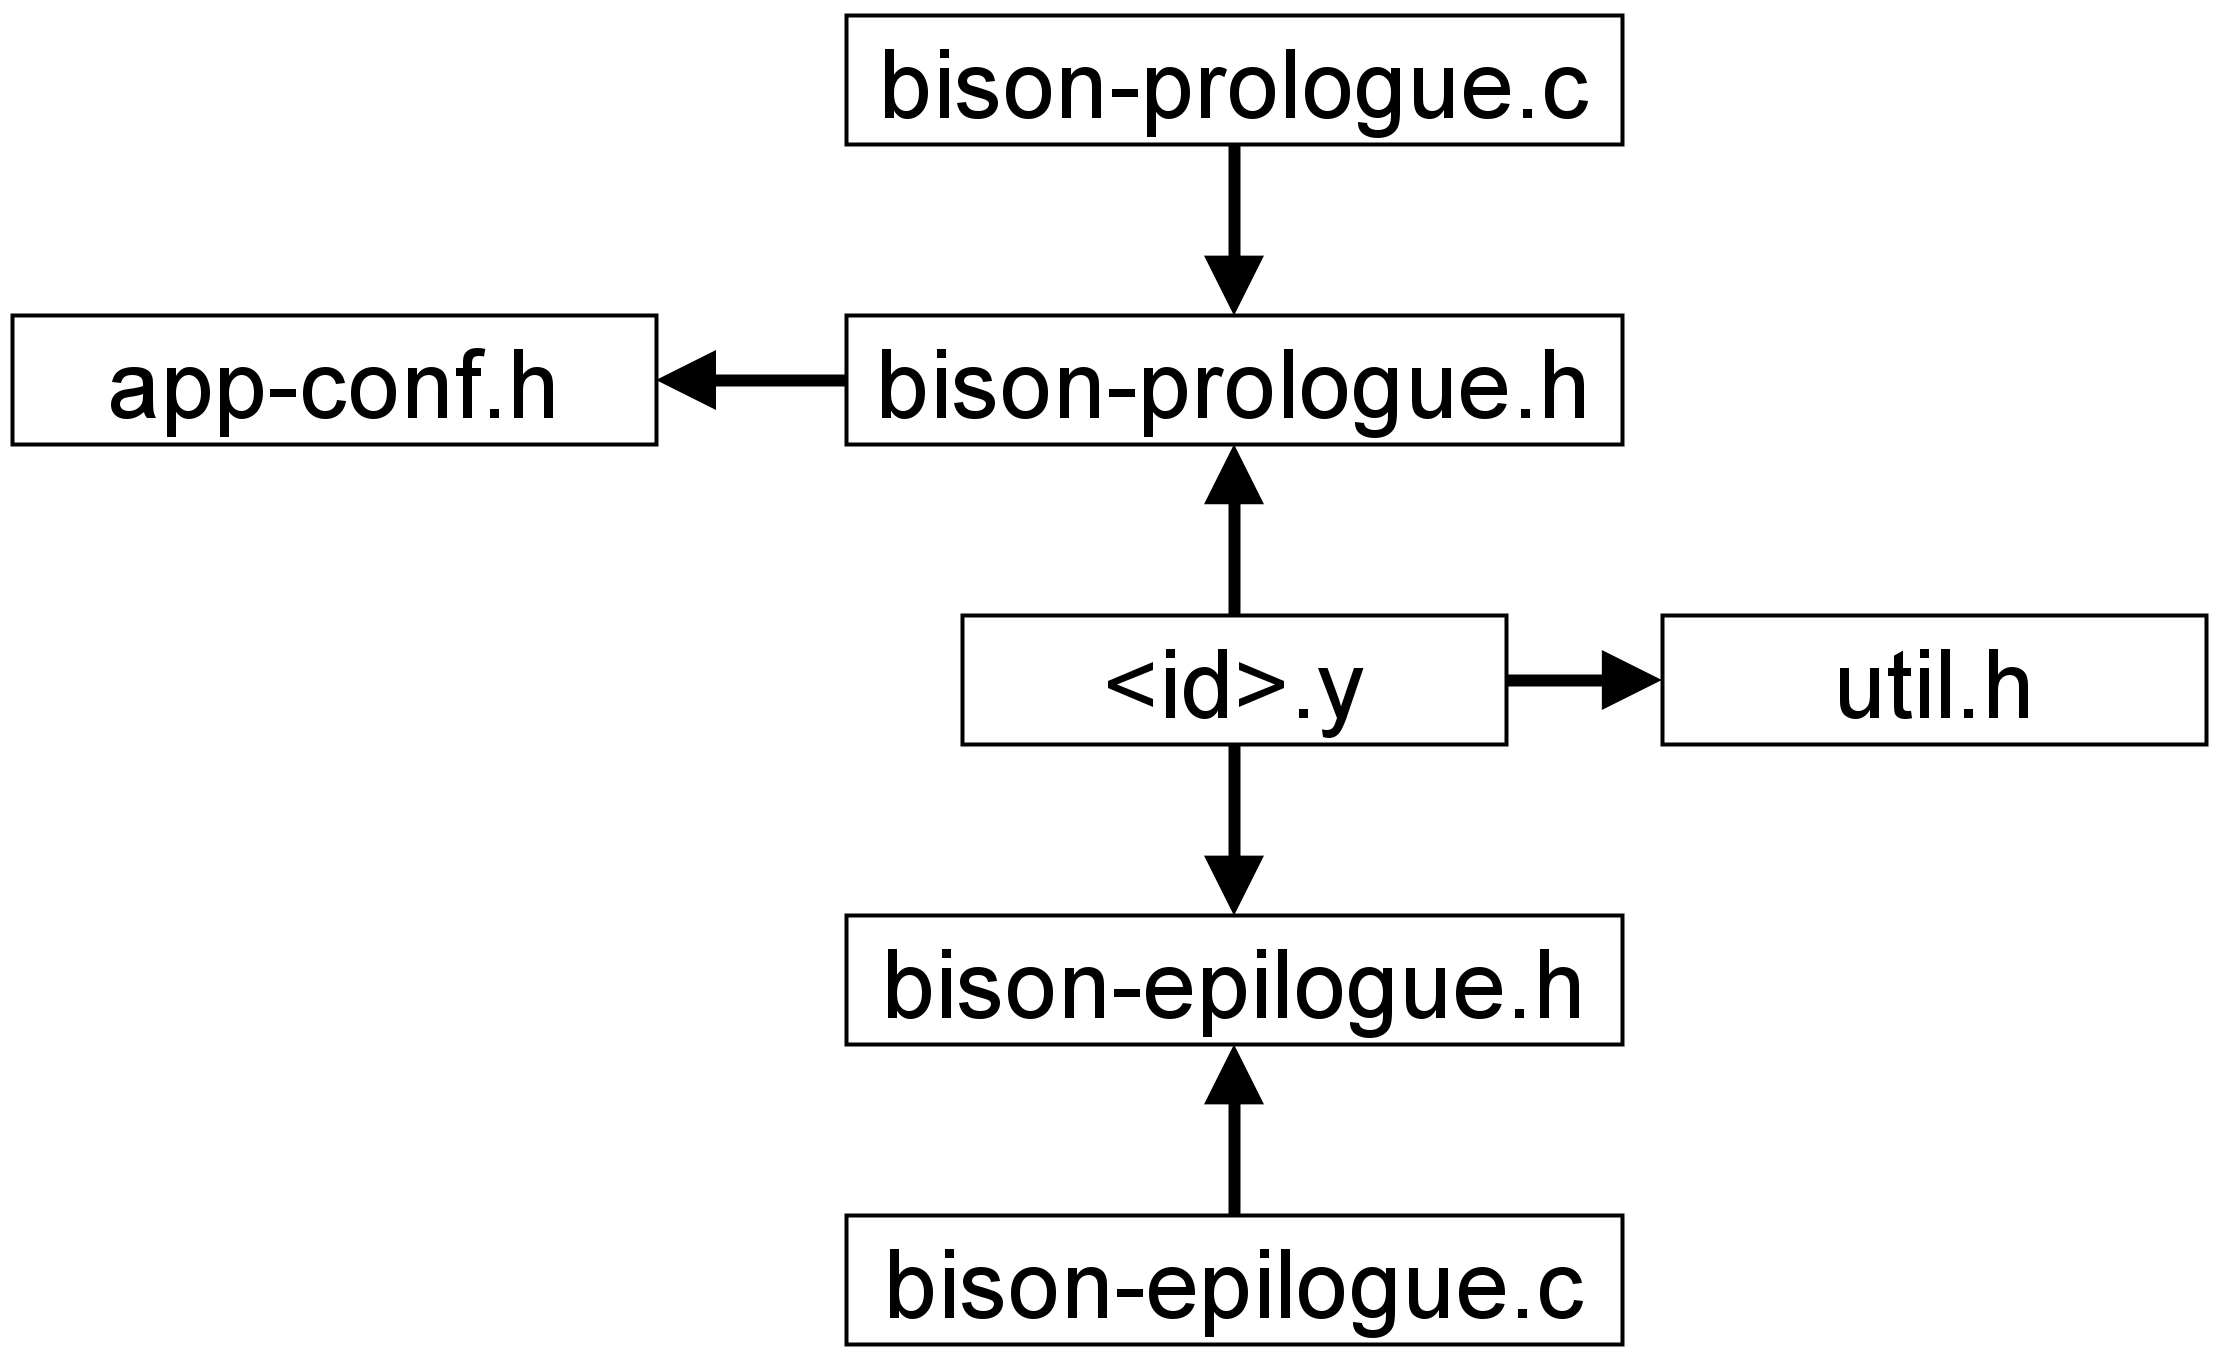
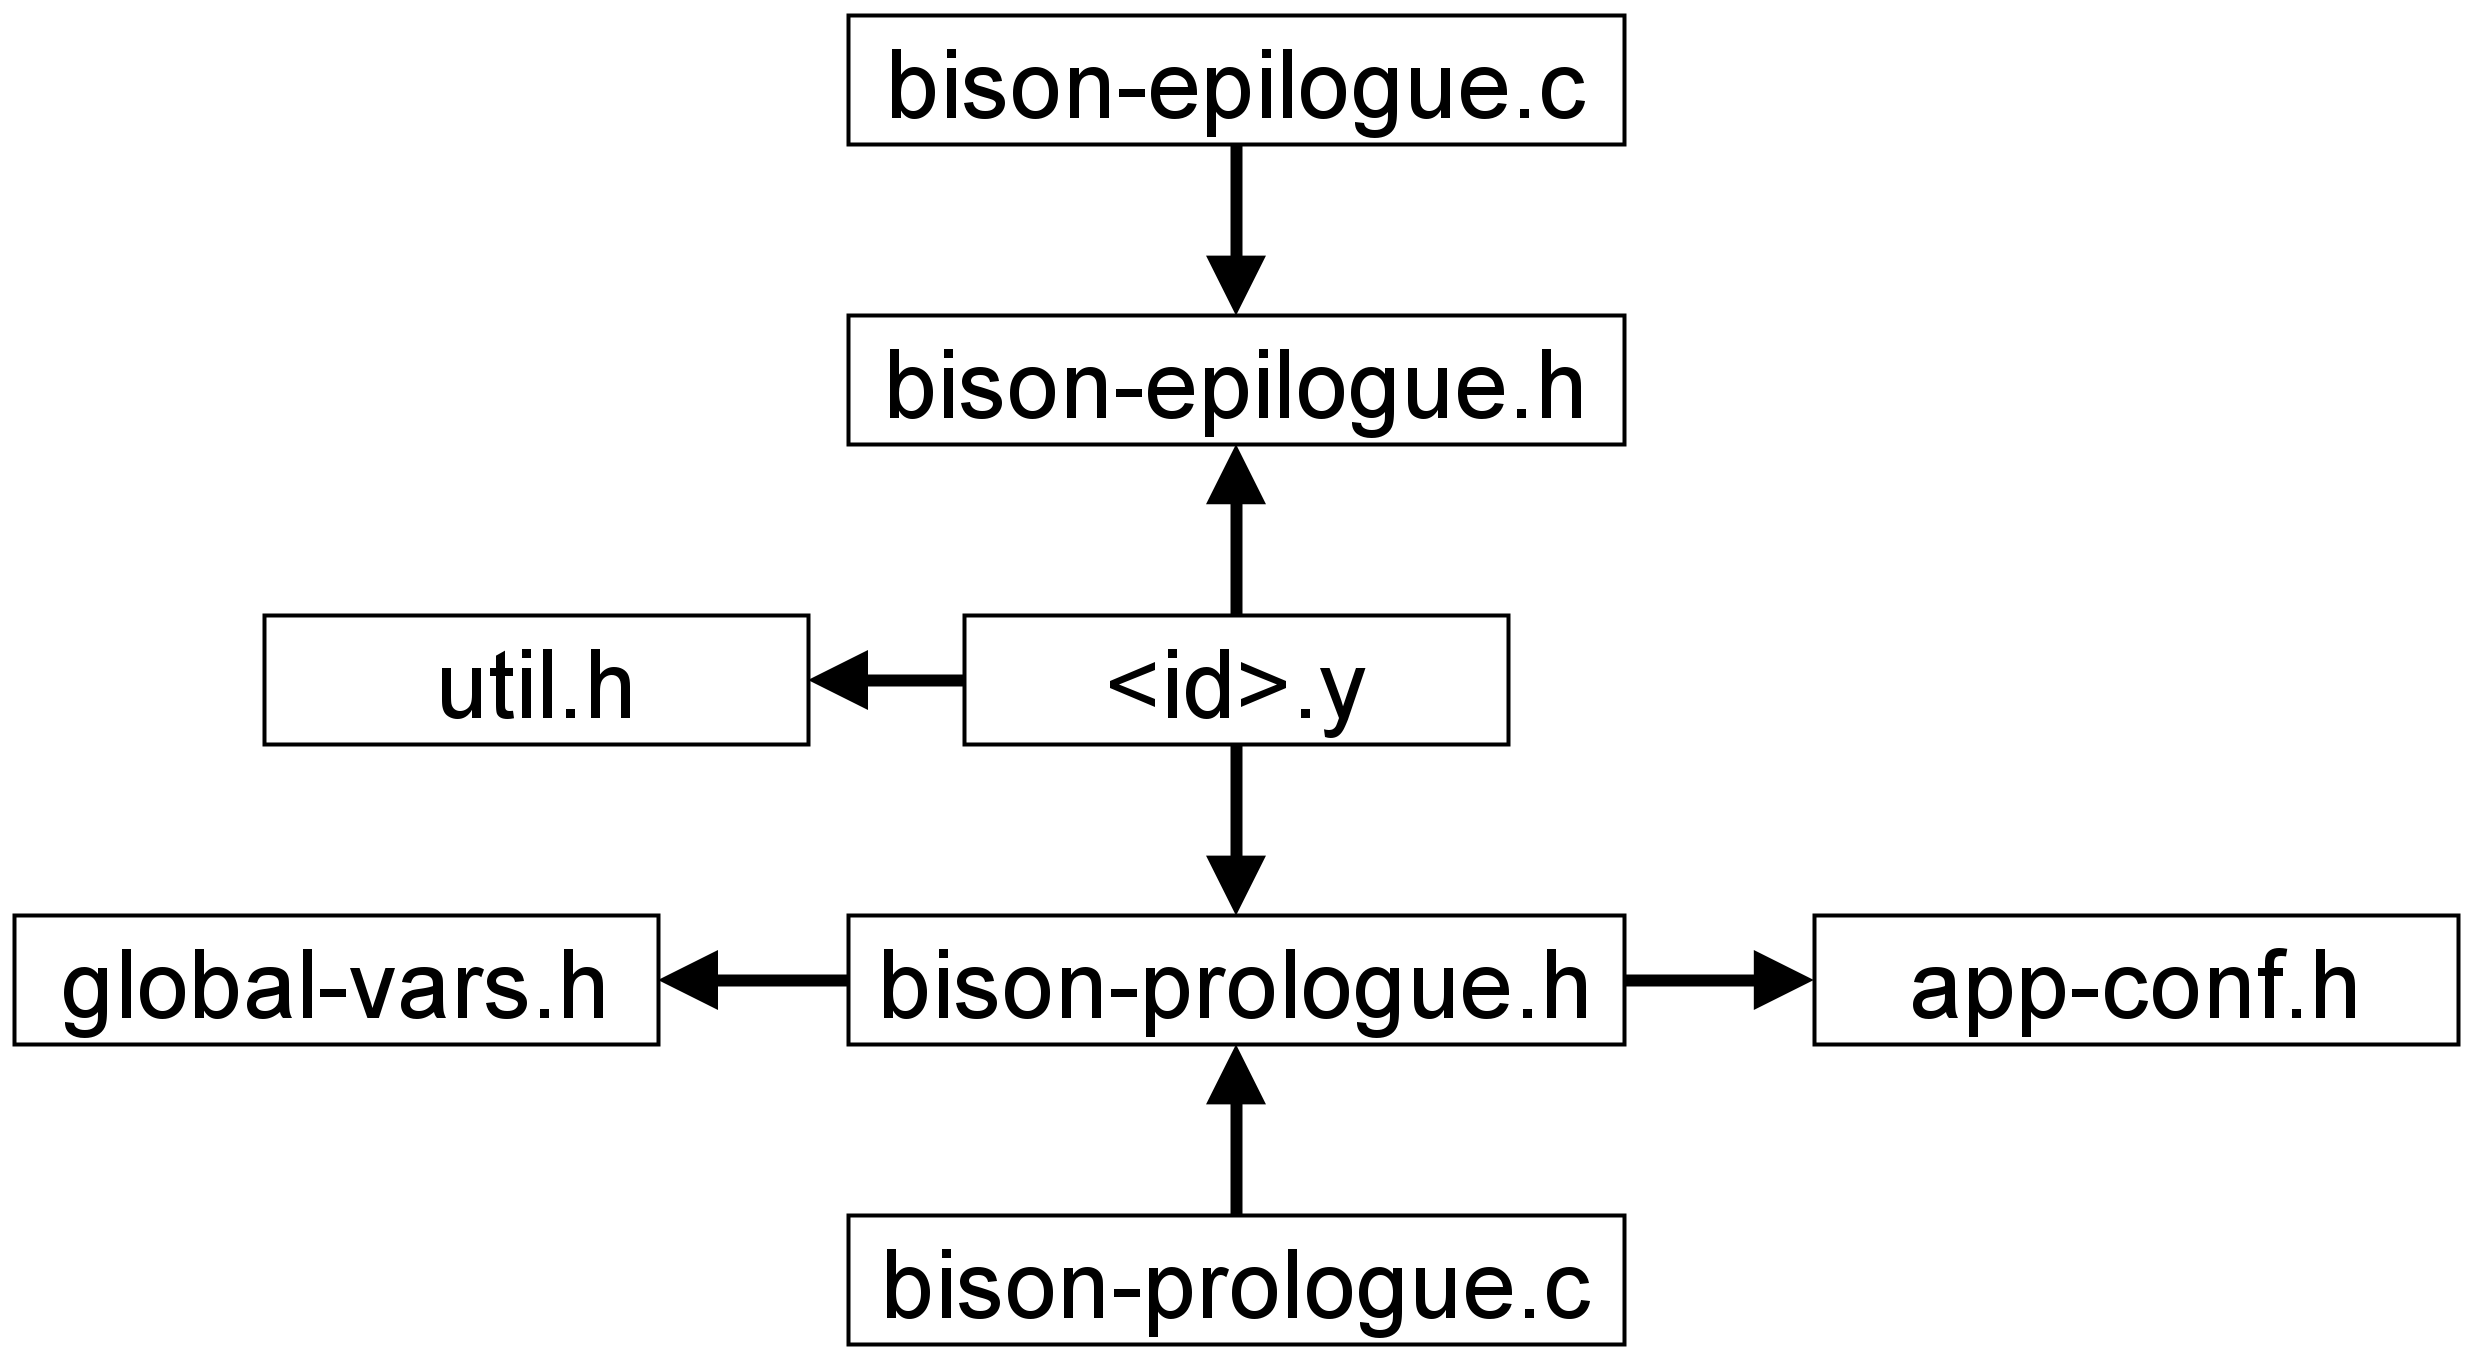
Actualiza el texto

diff --git a/contido/h-implementacion.tex b/contido/h-implementacion.tex
@@ -413,7 +413,7 @@ La organización de la aplicación a nivel código fuente en esta parte del proy
 
 \subsection{Carga dinámica del parser}
 
-Incluyendo \verb|dlfcn.h| en un programa C se tienen acceso a las funciones que permiten realizar la carga dinámica de ficheros \verb|.so| y la ejecución de una función cuyo prototipo sea conocido de antemano. En este caso, primero se define el puntero a función que se necesita:
+Definiendo el include de \verb|dlfcn.h| en un programa C se tienen acceso a las funciones que permiten realizar la carga dinámica de ficheros \verb|.so| y la ejecución de una función cuyo prototipo sea conocido de antemano. En este caso, primero se define el puntero a función que se necesita:
 
 \begin{lstlisting}[language=C,caption={},label={}]
 int (*parse)();
@@ -425,13 +425,13 @@ Luego se realiza la apertura de la librería dinámica que se quiere utilizar, p
 handle = dlopen(app_config->plugin_path, RTLD_LAZY);
 \end{lstlisting}
 
-Se obtiene la dirección de memoria del símbolo que se quiere utilizar, en este caso la función \verb|yyparse()|:
+Se obtiene la dirección de memoria del símbolo que se quiere utilizar, en este caso la función \verb|yyparse()|. Esta es la función la define Bison:
 
 \begin{lstlisting}[language=C,caption={},label={}]
 parse = dlsym(handle, PARSER_NAME);
 \end{lstlisting}
 
-Y por último se ejecuta el parser a través del puntero a función:
+Y por último se ejecuta el parser a través del puntero a función. Cuando el proceso finaliza correctamente la variable \verb|completed| valdrá 0. En caso de valer 1, lo más habitual es que se produjese un error de parser:
 
 \begin{lstlisting}[language=C,caption={},label={}]
 int completed = (*parse)();
@@ -445,14 +445,99 @@ fclose(yyin);
 \end{lstlisting}
 
 \subsection{Dependencias entre módulos}
-% dependencias entre módulos 
 
-% variables globales
+Al tener una colección de parsers, las secciones de los prólogos y el epílogo de Bison tienen partes comunes en todos los casos. Para evitar redundancias se crearon módulos específicos para albergar todo aquello que es común a todos los parses y realiza su inclusión previamente a cualquier otro contenido. Haciéndolo así, los analizadores no pierden las secciones sino que estas contienen únicamente las definiciones específicas para tratar cada una su modelo. La relación de dependencias puede verse en las Figuras \ref{fig:dependencia-flex} y \ref{fig:dependencia-bison}
 
-% compilación separada
+\begin{figure}
+    \centering
+    \begin{subfigure}[b]{0.40\textwidth}
+        \centering
+        \includegraphics[width=\textwidth]{imaxes/h-implementacion/relaciones-flex}
+        \caption{Dependencias Flex}
+        \label{fig:dependencia-flex}
+    \end{subfigure}
+    \hfill
+    \begin{subfigure}[b]{0.59\textwidth}
+        \centering
+        \includegraphics[width=\textwidth]{imaxes/h-implementacion/relaciones-bison}
+        \caption{Dependencias Bison}
+        \label{fig:dependencia-bison}
+    \end{subfigure}
+    %\caption{Dependencias}
+    %\label{fig:dependencias-flex-bison}
+\end{figure}
 
+Por ejemplo, en \verb|flex-prologue.c| se puede encontrar la implementación de la función \verb|split_id_value| (el prototipo completo es \verb| word_value *split_id_value(char *contents)|) cuyo cometido es recibir una palabra como, \verb|P1·W146·365·|, dividirla en componentes y crear su representación en memoria. El tipo de dato definido para las palabras es un \verb|struct| y se puede encontrar en \verb|types.h|:
 
-% flujo alto nivel
+\noindent\begin{minipage}{.45\textwidth}
+    \begin{lstlisting}[language=C,caption={},frame=tlrb,label={}]{WordValue}
+typedef struct word {
+    char *value;
+    char *w_id_string;
+    int w_id_numeric;
+    \end{lstlisting}
+\end{minipage}\hfill
+\begin{minipage}{.45\textwidth}
+    \begin{lstlisting}[language=C,caption={},frame=tlrb,label={}]{WordValue}
+    int w_id_numeric;
+    char *w_page_number_string;
+    int w_page_number_numeric;
+} word_value;
+    \end{lstlisting}
+\end{minipage}
+
+Para evitar la necesidad de conversiones en cualquier otros punto del programa, los identificadores se guardan como strings, útil durante escritura en disco, y como enteros, en el caso de necesitar realizar cualquier operación con ellos.
+
+El fichero \verb|bison-prologue.h| contiene las definiciones de prototipos de \verb|yyerror()| e \verb|yylex()|, que son llamadas durante la ejecución de \verb|yyparse()|. \verb|yylex()| es la función para ejecutar el escáner. \verb|yyerror()|, que se define en \verb|bison-epilogue.c| tienen por finalidad mostrar los errores del tratamiento por la salida de error, \verb|stderr|.
+
+\subsection{Variables globales}
+
+Debido a la reestructuración, las variables que se definen en el epílogo de Bison no están disponibles durante el parseo. El epílogo es donde está normalmente la función \verb|main()|. Aquí la función \verb|main()| es totalmente independiente y tienen su módulo propio. Esto es un inconveniente debido a que hay información necesaria que no va a ser accesible fuera del \verb|main()|. Por ejemplo, los parámetros de entrada al programa, que son tres:
+
+\begin{itemize}
+    \item La ruta al fichero del lenguaje intermedio.
+    \item La ruta al fichero del identificador del documento (el fichero \verb|.id|).
+    \item Y la ruta al plugin, para poder realizar la carga dinámica.
+\end{itemize}
+
+El path del fichero del lenguaje intermedio se descompone en partes (ruta de salida, número de documento) y se utilizan en la fase de generación para escribir los ficheros de resultados en la ruta y con el nombre correctos. Para la generación de los datos de las tablas en formato CSV no se utiliza el \acrshort{ast} sino que se utiliza una lista donde se guardan únicamente los datos relacionados.
+
+El acceso a esta información no es posible si no se emplean variables globales. El struct \verb|app_config| disponible en el módulo de cabecera \verb|app-conf.h| contiene los tipos de datos para guardar toda la información relativa a los parámetros de entrada y cualquier otro dato de configuración que fuese necesario. En el módulo \verb|global-vars.h| están las declaraciones de las variables que contendrán los datos de importes.
+
+\subsection{Compilación separada}
+
+La obtención los ejecutables se automatiza con GNU Make y dado que la carga de los parser se realiza como librerías dinámicas, la compilación se puede llevarse a cabo de forma separada ya que los parsers no se enlazan con el programa principal. Para su ejecución es posible crear distribuciones que contengan algunos parsers y no otros.
+Para la obtención de las librerías dinámicas se compilan primero los módulos dependientes de los que se ha hablado anteriormente, prólogos y epílogo, y también los módulos utilizados en la generación en la fase de generación \footnote{En las líneas de código de ejemplo la variable $ \$@ $, propia de Make, contiene el nombre del fichero que se va a compilar.}:
+
+\begin{lstlisting}[language=C,caption={},label={}]
+gcc -fPIC -c $@.c
+\end{lstlisting}
+
+El parámetro \verb|fPIC| de GCC compila los módulos de manera que el código generado no depende de estar en una dirección específica para funcionar y es necesario para las librerías dinámicas. A continuación ya se puede compilar cada uno de los parsers:
+
+\begin{lstlisting}[language=C,caption={},label={}]
+bison -y -Wno-yacc -d -r all -o $(PLUGIN)/$@.tab.c $(PLUGIN)/$@.y
+flex -o $(PLUGIN)/$@.yy.c $(PLUGIN)/$@.l
+gcc -fPIC -c $(PLUGIN)/$@.tab.c
+gcc -fPIC -c $(PLUGIN)/$@.yy.c
+gcc -o $@.so -shared bison-epilogue.o flex-prologue.o $@.tab.o $@.yy.o
+\end{lstlisting}
+
+Las dos primeras líneas generan los analizadores sintáctico y léxico, respectivamente. Se hace en este orden para poder incluir el fichero \verb|*.tab.c| en el analizador léxico. Este fichero contienen las definiciones de tokens compartidas por ambos. En la quinta línea se compila la librería y se obtiene el fichero \verb|.so|.
+
+\subsection{Evaluación sintáctica}
+
+Cuando se invoca la función \verb|yyperse()| comienza el análisis sintáctico para el modelo cargado.
+
+\subsection{Generación de código}
+
+% TODO  -------------------------------------
+
+El funcionamiento de alto nivel es como sigue: se invoca el método \verb|main()|, que inicializa la configuración de la aplicación y también las variables globales. Después se gestionan los argumento de entrada, tras lo cual se carga la librería dinámica que contiene la función \verb|yyparse()|, a la cual se llama, dando comienzo al proceso de parsing. Al finalizar se libera la memoria utilizada.
+
+El proceso del parser conlleva varios pasos. En el primer paso se tokeniza la entrada, el lenguaje intermedio en este caso, aplicando las reglas léxicas y se evalúan las sintácticas de tal manera que se va construyendo el \acrlong{ast}. Si no se produce ningún error, se consume la entrada y se llega al axioma, donde se llama a las funciones de generación de código, pasando el árbol. Las funciones de generación recorren el \acrshort{ast} creando el texto que se volcará finalmente a disco para cada uno de los ficheros que componen la salida.
+
+% TODO ---------------------------
 
 Estos ficheros de reglas son totalmente independientes entre si y se compilan a librerías dinámicas (extensión \verb|.so|). La carga de las reglas se decide en tiempo de ejecución. Por otra parte, si que existen aspectos que se necesitaba fuesen compartidos, empezando por la función \verb|main()| pero también los tipos de datos para representar las regiones, los módulos de generación y ciertas variables globales. En el Listado \ref{lst:fuentes-del-procesador-de-lenguajes} del Apéndice se pueden ver todos los ficheros que forman parte del procesador de lenguajes. Alternativamente, en la Tabla \ref{tab:modulos-procesador-lenguaje} están relacionados los más relevantes.
 
@@ -487,39 +572,10 @@ Estos ficheros de reglas son totalmente independientes entre si y se compilan a 
     \label{tab:modulos-procesador-lenguaje}
 \end{table}
 
-El funcionamiento de alto nivel es como sigue: se inicia el método \verb|main()| que inicializa la configuración de la aplicación y también algunas variables globales. Después se gestionan los argumento de entrada, tras lo cual se carga la librería dinámica que contiene la función \verb|yyparse()|, a la cual se llama, dando comienzo al proceso de parsing. Al finalizar se libera la memoria utilizada.
-
-El proceso del parser conlleva varios pasos. En el primer paso se tokeniza la entrada, el lenguaje intermedio en este caso, aplicando las reglas léxicas y se evalúan las sintácticas de tal manera que se va construyendo el \acrlong{ast}. Si no se produce ningún error, se consume la entrada y se llega al axioma, donde se llama a las funciones de generación de código, pasando el árbol. Las funciones de generación recorren el \acrshort{ast} creando el texto que se volcará finalmente a disco para cada uno de los ficheros que componen la salida.
-
-% TODO Variables globales? Explicar como se enlazan los ficheros fuente y para qué son las variables globales
-
-En esta implementación, los elementos comunes a todos los modelos se han externalizado y se relacionan por medio de sentencias \verb|#include|. Esto permite aislar los ficheros Flex de tal manera que su contenido sea únicamente el necesario para tratar el modelo de documento. El las Imágenes \ref{fig:dependencia-flex} y \ref{fig:dependencia-bison} se presenta la relación de dependencias.
-
-\begin{figure}
-    \centering
-    \begin{subfigure}[b]{0.40\textwidth}
-        \centering
-        \includegraphics[width=\textwidth]{imaxes/h-implementacion/relaciones-flex}
-        \caption{Dependencias Flex}
-        \label{fig:dependencia-flex}
-    \end{subfigure}
-    \hfill
-    \begin{subfigure}[b]{0.59\textwidth}
-        \centering
-        \includegraphics[width=\textwidth]{imaxes/h-implementacion/relaciones-bison}
-        \caption{Dependencias Bison}
-        \label{fig:dependencia-bison}
-    \end{subfigure}
-    %\caption{Dependencias}
-    %\label{fig:dependencias-flex-bison}
-\end{figure}
-
-Las variables globales son utilizadas para poder acceder durante la fase de generación a información que no viene en el \acrshort{ast}. Por ejemplo, la información de configuración, que se obtienen durante el comienzo en \verb|main()| no se puede consultar. Para la generación del JSON de importes, sea utiliza una variable distinta al \acrshort{ast} que tampoco estaría disponible. Por tal motivo se recurre al uso de estas variables globales.
 
 
 % TODO Como funciona la carga dinámica? Qué facilidad se utiliza? Como se compila?
 
-La carga dinámica emplea la librería 
 
 % TODO tipos de datos utilizados. Explicar que todos los procesos de generación recorren el árbol de parseo extrayendo la información necesaria
 

diff --git a/contido/e-fundamentos-tecnologicos.tex b/contido/e-fundamentos-tecnologicos.tex
@@ -74,7 +74,6 @@ Existen múltiples maneras de construir la tabla y dependiendo del algoritmo uti
 En el Listado \ref{lst:ejemplo-programa-bison} se presenta un pequeño ejemplo de la estructura de un fichero fuente Bison. El diseño, en tres secciones, es similar al encontrado en el ejemplo de Flex en el Listado \ref{lst:ejemplo-programa-flex}. La primera sección contiene código en lenguaje C que es copiado directamente en el analizador generado. Esta primera sección también se utiliza para declarar los nombres de los terminales y no terminales utilizados en la gramática y asignarles un tipo de dato. La sección intermedia contiene las reglas gramaticales y, al igual que en flex, se pueden especificar acciones semánticas. Por ejemplo, en la línea 18, se calcula el valor de una suma a partir de los valores semánticos de los tokens recibidos. El valor calculado es devuelto al siguiente nodo del árbol.
 
 \begin{lstlisting}[language=C,caption={Ejemplo de programa Bison \cite{mit_web_bisonExample}.},label=lst:ejemplo-programa-bison]
-
 %{
     /* Sección del prólogo para código C común */
 %}
@@ -95,7 +94,7 @@ exp:     NUM         { $$ = $1;      }
        | exp exp '+' { $$ = $1 + $2; }
        ;
 %%
-    /* Sección epílogo: código C para inicilizar el parser. Contiene la función main() */
+    /* Sección epílogo: código C para inicializar el parser. Contiene la función main() */
 \end{lstlisting}
 
 \subsection{Docker}
